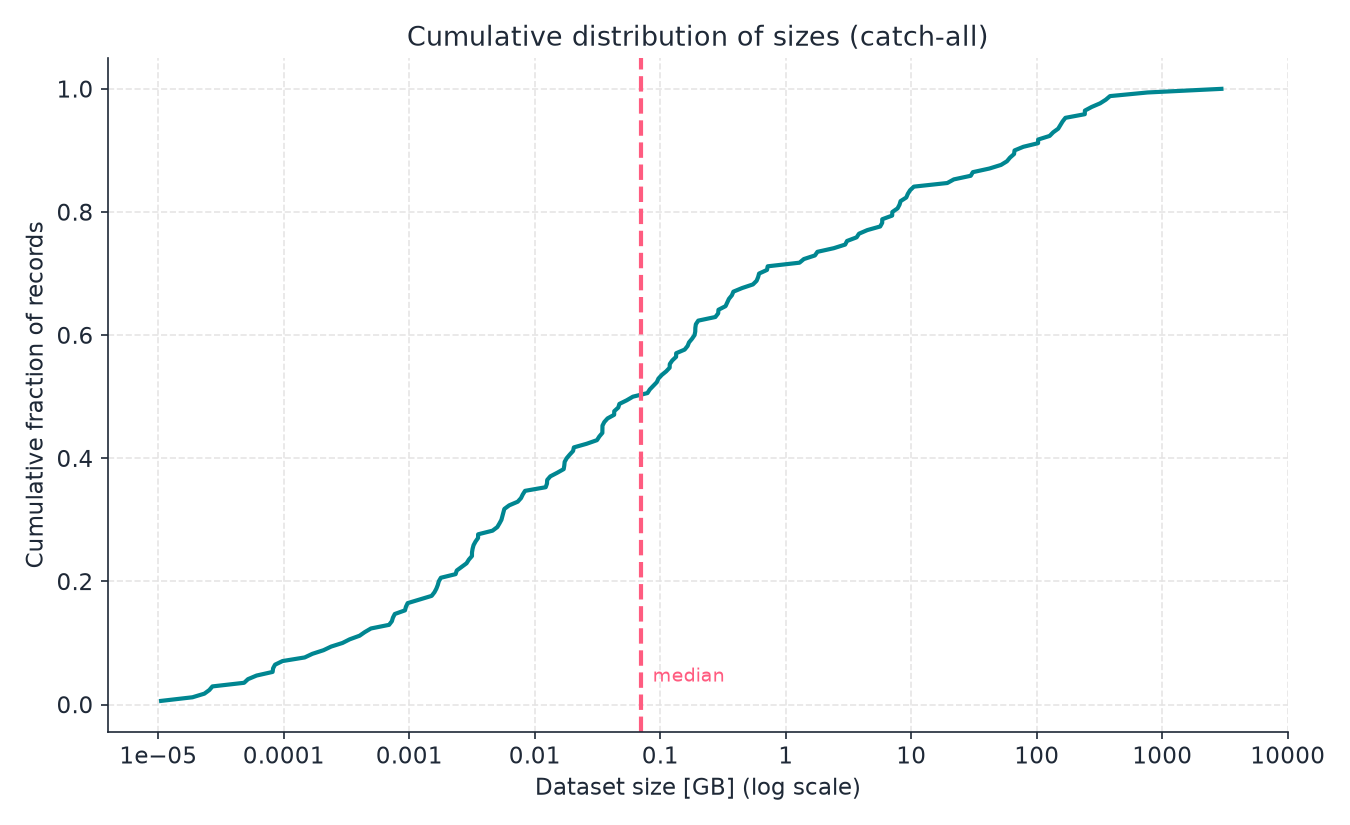
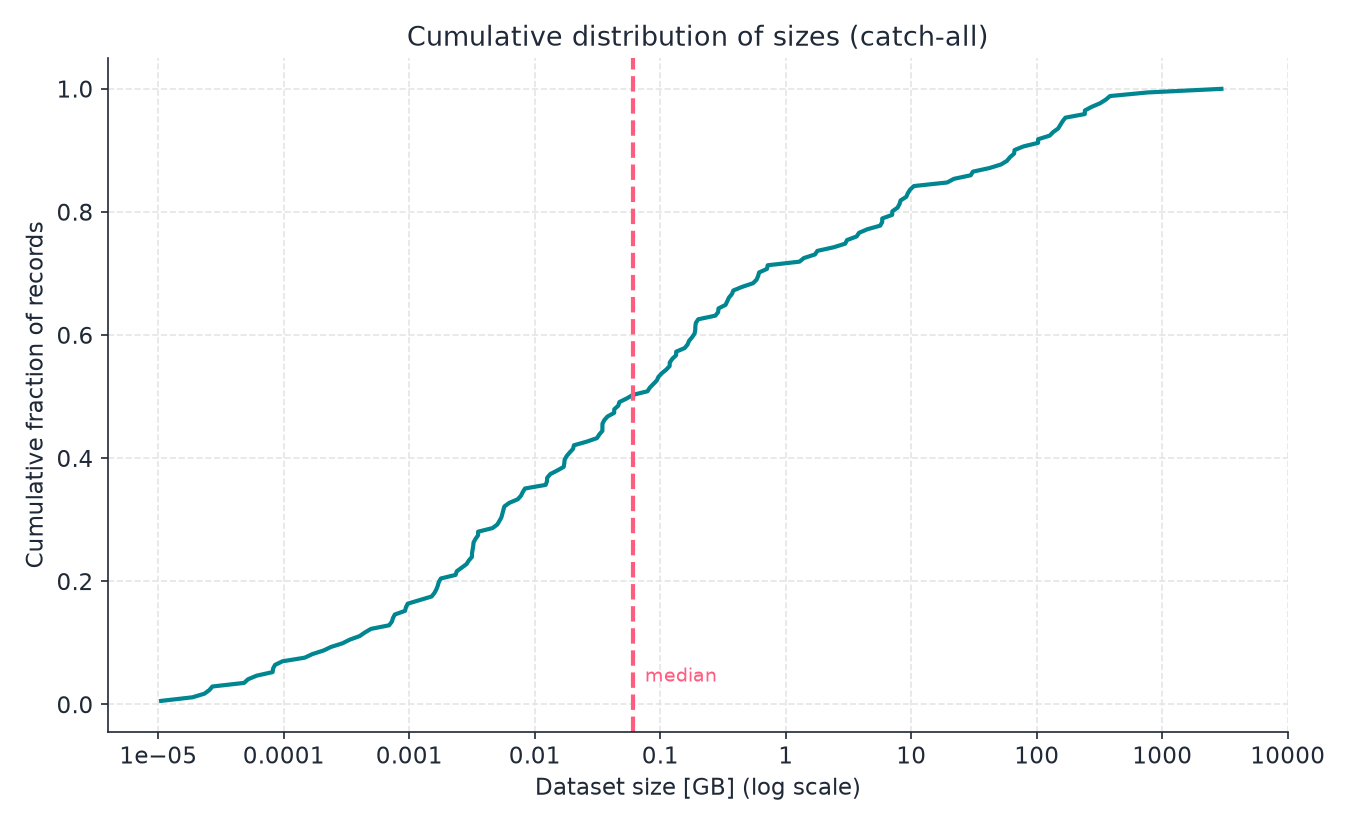
Update report: 2026-07-30 07:06:20 UTC

diff --git a/nrp_by_community.md b/nrp_by_community.md
@@ -5,8 +5,8 @@
 | `digitalia` | Digitalia Community | 0 | — |
 | `cuni-datahub` | Charles University, DataHub Community | 2 | [datst.3z1na-56663](https://datarepo.eosc.cz/datasets/records/datst.3z1na-56663)<br>[datst.rw77y-hym71](https://datarepo.eosc.cz/datasets/records/datst.rw77y-hym71) |
 | `cesnet-tmc` | CESNET - TMC Community | 1 | [datst.44v8q-s2m90](https://datarepo.eosc.cz/datasets/records/datst.44v8q-s2m90) |
-| `—` | No Community | 95 | [zart1-m0n50](https://datarepo.eosc.cz/datasets/records/zart1-m0n50)<br>[37881-zee38](https://datarepo.eosc.cz/datasets/records/37881-zee38)<br>[25jfy-0vh36](https://datarepo.eosc.cz/datasets/records/25jfy-0vh36)<br>[9vzwg-wxy73](https://datarepo.eosc.cz/datasets/records/9vzwg-wxy73)<br>[datst.3nga8-wsr91](https://datarepo.eosc.cz/datasets/records/datst.3nga8-wsr91) |
-| **Total** | — | **174** | — |
+| `—` | No Community | 96 | [nppcf-2ea66](https://datarepo.eosc.cz/datasets/records/nppcf-2ea66)<br>[zart1-m0n50](https://datarepo.eosc.cz/datasets/records/zart1-m0n50)<br>[37881-zee38](https://datarepo.eosc.cz/datasets/records/37881-zee38)<br>[25jfy-0vh36](https://datarepo.eosc.cz/datasets/records/25jfy-0vh36)<br>[9vzwg-wxy73](https://datarepo.eosc.cz/datasets/records/9vzwg-wxy73) |
+| **Total** | — | **175** | — |
   
 _Source: https://datarepo.eosc.cz_
 

diff --git a/nrp_dump/size_stats.md b/nrp_dump/size_stats.md
@@ -1,6 +1,6 @@
 ## Record Size Statistics
 
-- **Records with size:** 170
-- **Total volume:** 7.12 TB (7,832,348,138,455 B)
-- **Mean:** 42.91 GB (46,072,636,109 B)
-- **Median:** 71.44 MB (74,909,904 B)
+- **Records with size:** 171
+- **Total volume:** 7.12 TB (7,832,351,606,832 B)
+- **Mean:** 42.66 GB (45,803,225,771 B)
+- **Median:** 61.95 MB (64,956,556 B)
